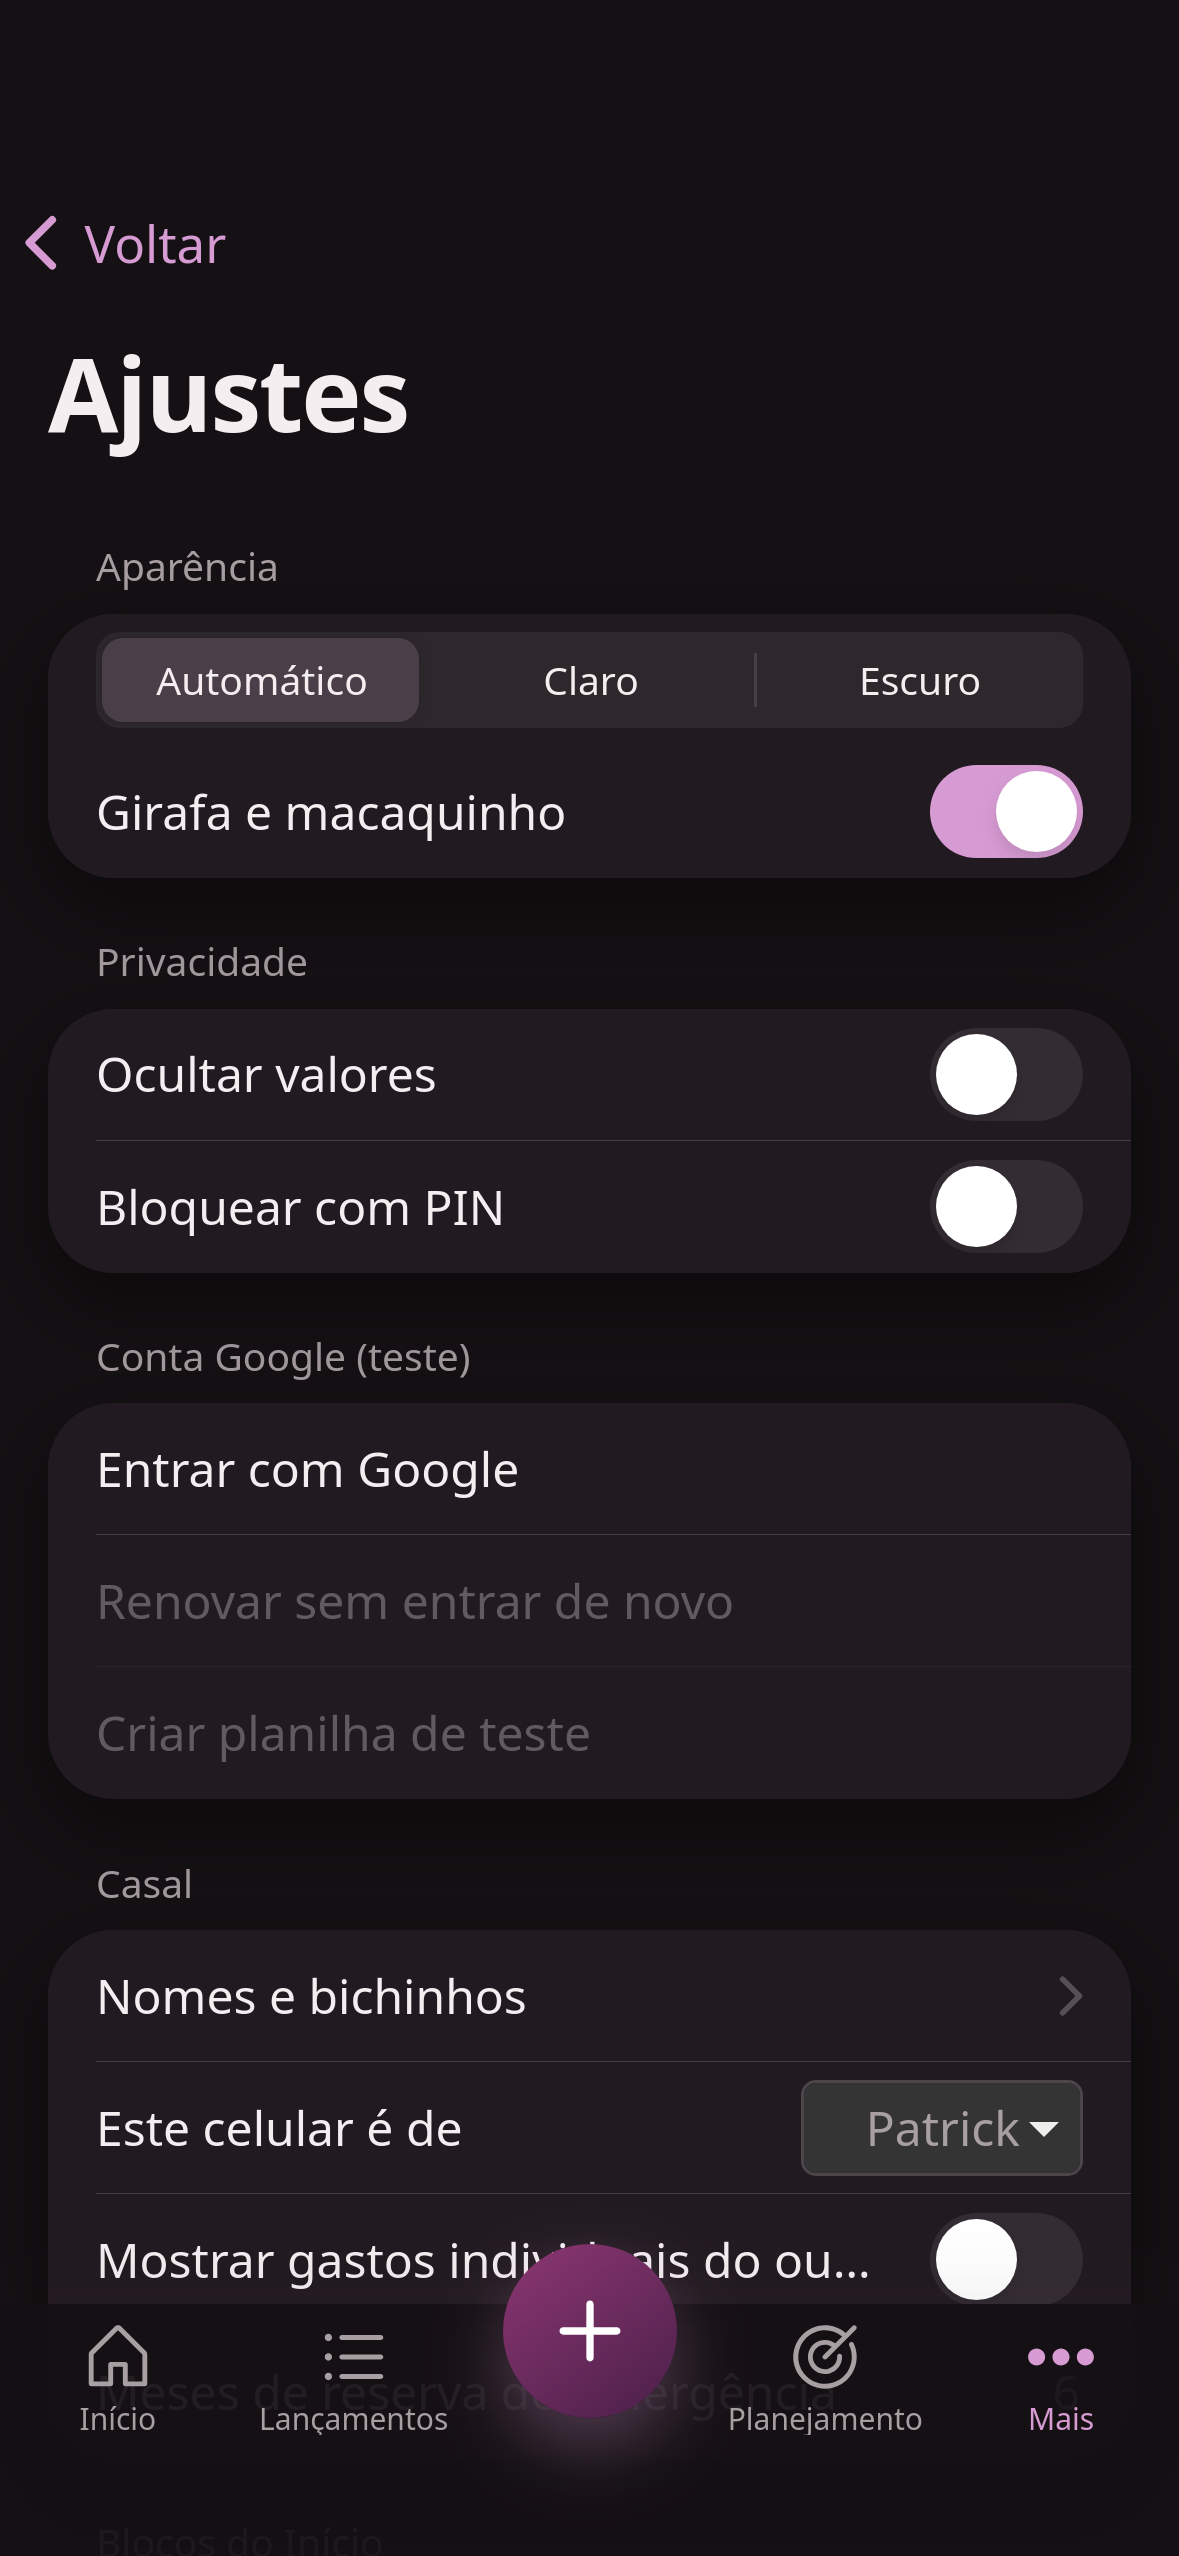
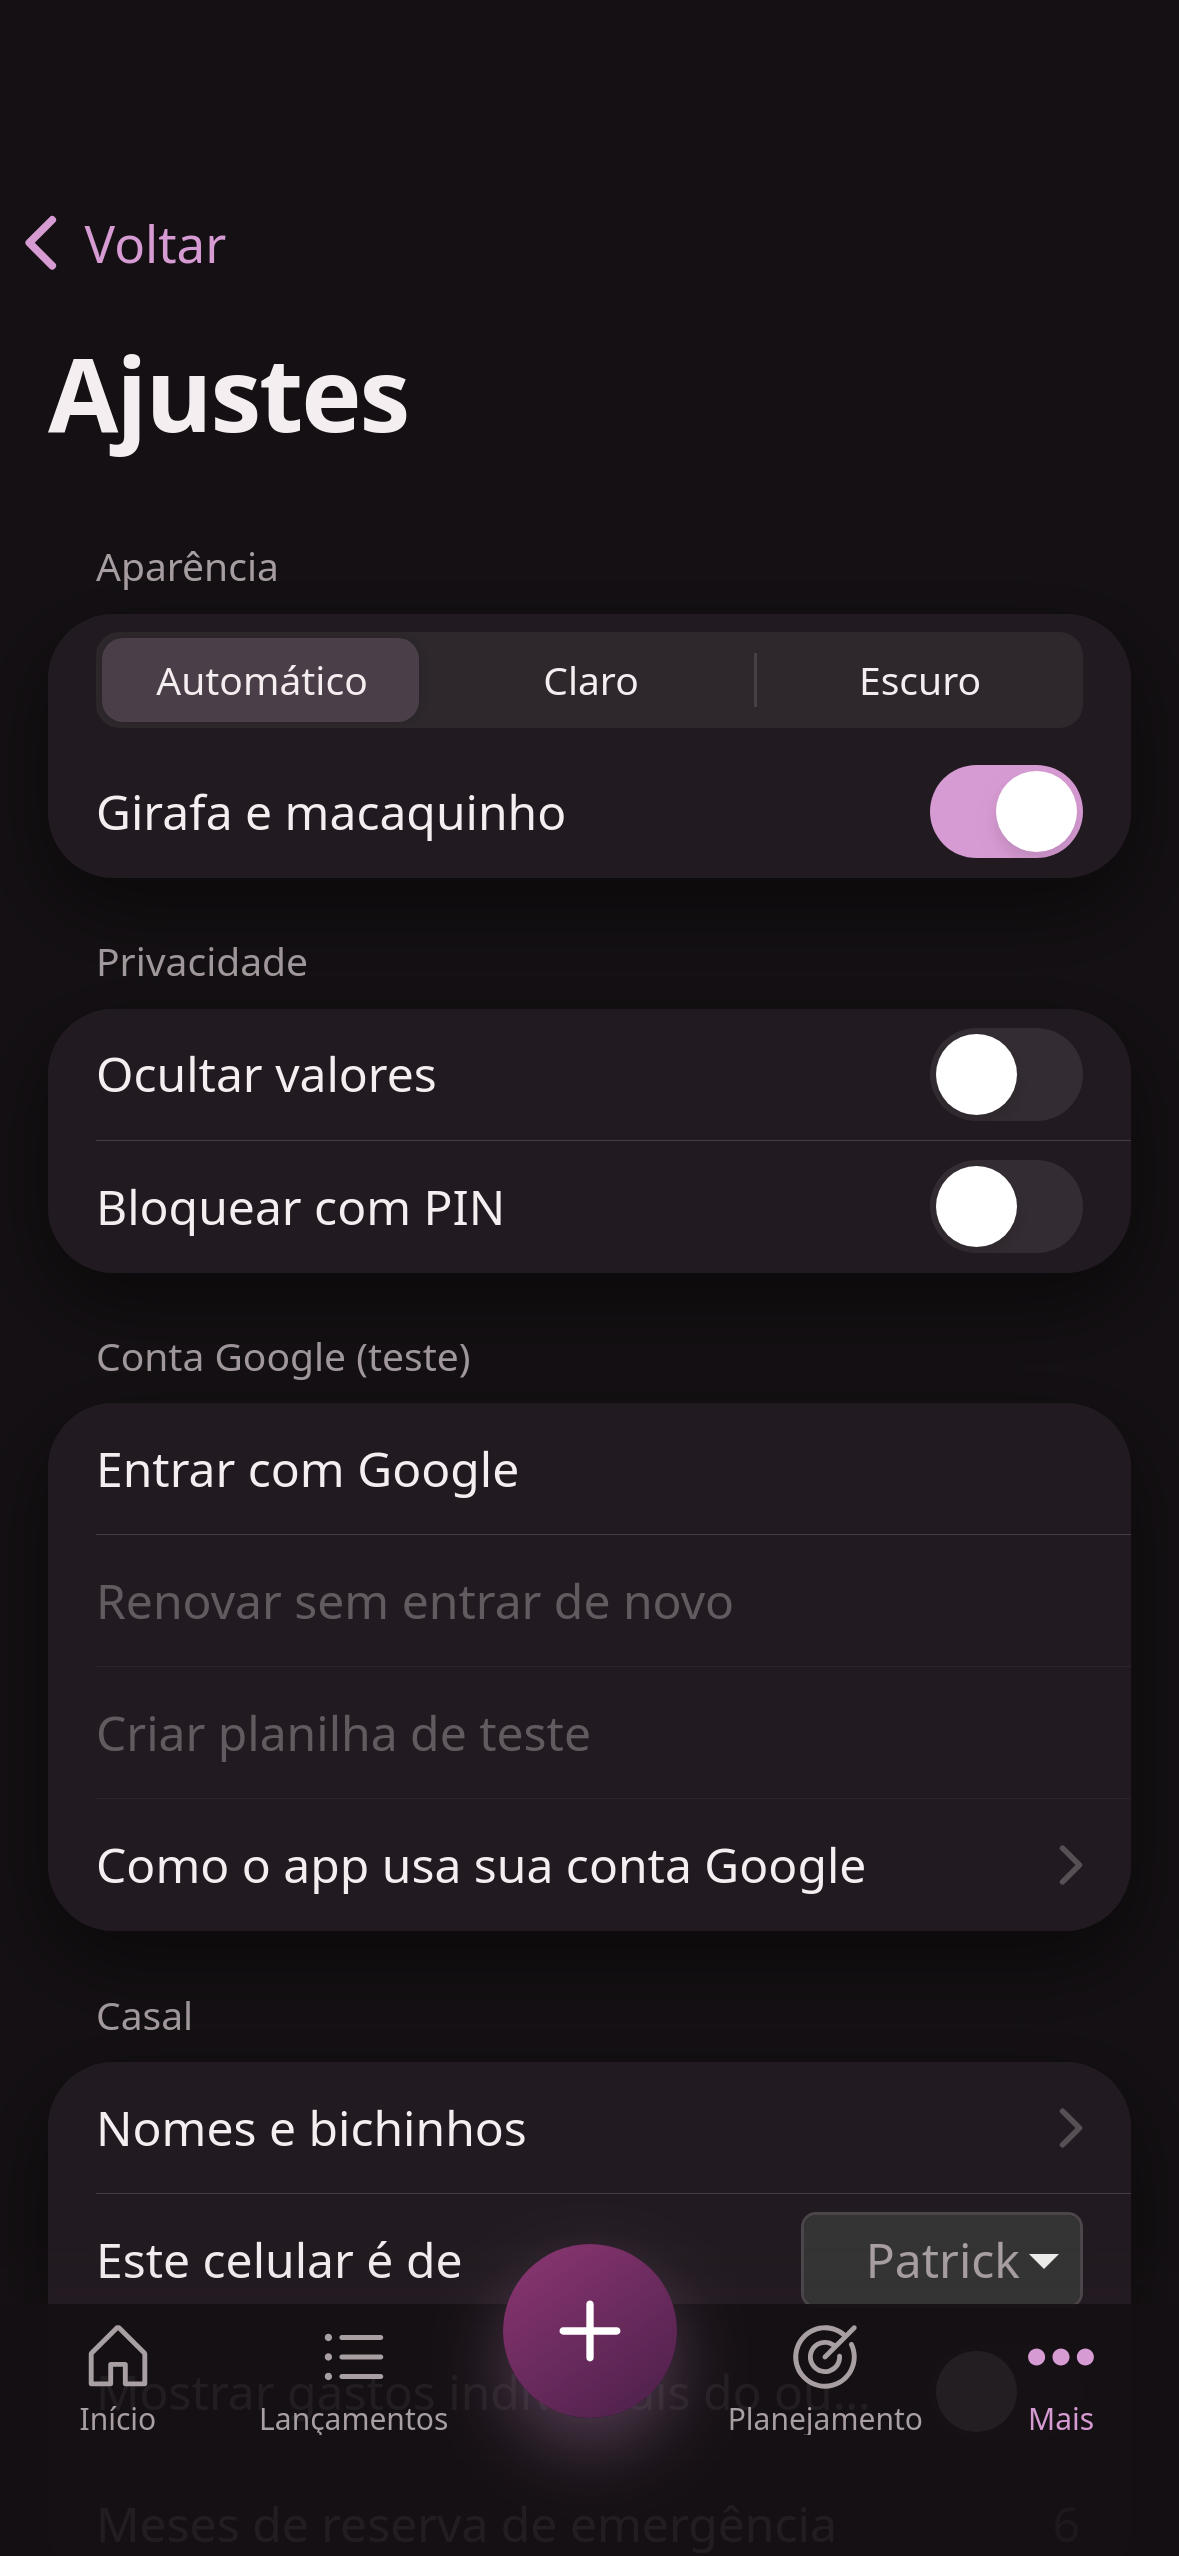
feat: add homepage and privacy policy for Google's consent screen
Publishing the Google project needs both on the app's own domain. They say
what the app actually does: no server, no analytics, and Google access
limited to the email address and files the app itself created or opened.

diff --git a/public/privacidade.html b/public/privacidade.html
@@ -1,0 +1,107 @@
+<!doctype html>
+<html lang="pt-BR">
+  <head>
+    <meta charset="utf-8" />
+    <meta name="viewport" content="width=device-width, initial-scale=1" />
+    <title>Meu Bem: política de privacidade</title>
+    <link rel="icon" href="icons/favicon-64.png" />
+    <link rel="stylesheet" href="legal.css" />
+  </head>
+  <body>
+    <main>
+      <h1>Política de privacidade</h1>
+      <p class="lead">Meu Bem. Atualizada em 6 de novembro de 2026.</p>
+
+      <h2>O essencial</h2>
+      <p>
+        O Meu Bem não tem servidor próprio. Não recebemos, não guardamos e não vendemos os dados de
+        vocês, e o app não usa anúncios nem ferramentas de análise.
+      </p>
+
+      <h2>Dados que ficam no aparelho</h2>
+      <p>
+        Nomes, salários, contas e os demais dados que vocês digitam ficam no armazenamento do
+        navegador do próprio aparelho. Eles só saem de lá quando vocês decidem: ao exportar um
+        backup, ao enviar uma mensagem pelo Compartilhar ou ao usar a conta Google.
+      </p>
+
+      <h2>Dados do Google</h2>
+      <p>Entrar com o Google é opcional. Quando vocês entram, o app pede acesso a:</p>
+      <ul>
+        <li><strong>Seu endereço de e-mail</strong>, para mostrar com qual conta você entrou.</li>
+        <li>
+          <strong>Arquivos do Google Drive criados ou abertos pelo app</strong> (permissão
+          <code>drive.file</code>), para criar e usar a planilha do Meu Bem. O app não vê os outros
+          arquivos do seu Drive.
+        </li>
+      </ul>
+      <p>
+        Essa comunicação acontece direto entre o seu aparelho e o Google. O acesso é usado só para
+        as funções acima, não é enviado a nós nem a terceiros, e a planilha fica na sua conta
+        Google. Ela só é vista por quem você compartilhar.
+      </p>
+      <p>
+        O uso e a transferência de informações recebidas das APIs do Google seguem a
+        <a href="https://developers.google.com/terms/api-services-user-data-policy"
+          >Política de Dados do Usuário dos Serviços de API do Google</a
+        >, incluindo os requisitos de uso limitado.
+      </p>
+
+      <h2>Serviços de terceiros</h2>
+      <ul>
+        <li>
+          <strong>GitHub Pages</strong> entrega os arquivos do app e pode registrar dados técnicos,
+          como o endereço IP, conforme a política do GitHub.
+        </li>
+        <li>
+          <strong>Google</strong> entrega o script de login quando a tela de Ajustes é aberta e
+          trata os dados da conta conforme a política do Google.
+        </li>
+      </ul>
+
+      <h2>Como apagar os dados</h2>
+      <ul>
+        <li>No aparelho: apague os dados do site no navegador ou remova o app.</li>
+        <li>
+          No Google: apague a planilha no Drive e revogue o acesso em
+          <a href="https://myaccount.google.com/permissions">myaccount.google.com/permissions</a>.
+        </li>
+      </ul>
+
+      <h2>Contato</h2>
+      <p>
+        Dúvidas sobre esta política podem ser enviadas em
+        <a href="https://github.com/patlopes/duo/issues">github.com/patlopes/duo/issues</a>.
+      </p>
+
+      <section class="other-language" id="english" lang="en">
+        <h2>In English</h2>
+        <p>
+          Meu Bem has no server of its own. We do not receive, store or sell user data, and the app
+          has no ads or analytics. Data typed into the app stays in the browser storage of the
+          device.
+        </p>
+        <p>
+          Signing in with Google is optional. The app requests the user's email address, to show
+          which account is signed in, and <code>drive.file</code> access, to create and use the
+          app's own spreadsheet; it cannot see other Drive files. This happens directly between the
+          device and Google, and nothing is sent to us or to third parties.
+        </p>
+        <p>
+          Meu Bem's use and transfer of information received from Google APIs adheres to the
+          <a href="https://developers.google.com/terms/api-services-user-data-policy"
+            >Google API Services User Data Policy</a
+          >, including the Limited Use requirements.
+        </p>
+        <p>
+          To delete data, clear the site's data on the device, delete the spreadsheet from Drive and
+          revoke access at
+          <a href="https://myaccount.google.com/permissions">myaccount.google.com/permissions</a>.
+          Contact:
+          <a href="https://github.com/patlopes/duo/issues">github.com/patlopes/duo/issues</a>.
+        </p>
+      </section>
+      <footer><a href="sobre.html">Sobre o Meu Bem</a></footer>
+    </main>
+  </body>
+</html>

diff --git a/public/sobre.html b/public/sobre.html
@@ -1,0 +1,53 @@
+<!doctype html>
+<html lang="pt-BR">
+  <head>
+    <meta charset="utf-8" />
+    <meta name="viewport" content="width=device-width, initial-scale=1" />
+    <title>Meu Bem: as contas do casal</title>
+    <meta
+      name="description"
+      content="Meu Bem mostra quanto o casal tem somando as rendas, quanto precisa pagar junto e quanto cabe a cada um."
+    />
+    <link rel="icon" href="icons/favicon-64.png" />
+    <link rel="stylesheet" href="legal.css" />
+  </head>
+  <body>
+    <main>
+      <div class="mascots">
+        <img src="mascots/giraffe-happy.webp" alt="Girafa, mascote do app" />
+        <img src="mascots/monkey-happy.webp" alt="Macaquinho, mascote do app" />
+      </div>
+      <h1>Meu Bem</h1>
+      <p class="lead">As contas que o casal paga junto, sem fazer conta.</p>
+      <a class="button" href="./">Abrir o app</a>
+
+      <h2>O que o app faz</h2>
+      <ul>
+        <li>Soma o salário de cada um e mostra quanto vocês têm no mês.</li>
+        <li>Reúne o que vocês pagam juntos: moradia, casamento, compras e contas fixas.</li>
+        <li>Diz quanto cabe a cada um, pela renda ou metade para cada.</li>
+        <li>Avisa quanto transferir para a conta conjunta e até quando.</li>
+        <li>Projeta os próximos meses e simula um aumento ou uma compra.</li>
+      </ul>
+
+      <h2>Onde ficam os dados</h2>
+      <p>
+        O app funciona no próprio celular, sem servidor e sem cadastro. Os dados ficam no aparelho
+        de vocês. O uso da conta Google é opcional e serve para guardar e compartilhar os dados numa
+        planilha que fica na conta Google de vocês.
+      </p>
+      <p><a href="privacidade.html">Leia a política de privacidade</a></p>
+
+      <section class="other-language" lang="en">
+        <h2>In English</h2>
+        <p>
+          Meu Bem is a free app for couples in Brazil. It adds up both incomes, lists the bills they
+          pay together and shows each person's share. Data stays on the device. Signing in with
+          Google is optional and is used to store and share that data in a spreadsheet in the user's
+          own Google account.
+          <a href="privacidade.html#english">Privacy policy</a>.
+        </p>
+      </section>
+    </main>
+  </body>
+</html>

diff --git a/public/legal.css b/public/legal.css
@@ -1,0 +1,89 @@
+:root {
+  color-scheme: light dark;
+  --bg: #f7f3ee;
+  --surface: #ffffff;
+  --text: #241c23;
+  --muted: #63585f;
+  --primary: #6e2f6b;
+}
+@media (prefers-color-scheme: dark) {
+  :root {
+    --bg: #141013;
+    --surface: #221b21;
+    --text: #f4eff3;
+    --muted: #b9adb6;
+    --primary: #d79bd3;
+  }
+}
+* {
+  box-sizing: border-box;
+}
+body {
+  margin: 0;
+  padding: 32px 16px 64px;
+  background: var(--bg);
+  color: var(--text);
+  font:
+    17px/1.55 ui-rounded,
+    -apple-system,
+    BlinkMacSystemFont,
+    'Segoe UI',
+    Roboto,
+    sans-serif;
+}
+main {
+  max-width: 640px;
+  margin: 0 auto;
+}
+.mascots {
+  display: flex;
+  gap: 8px;
+  align-items: flex-end;
+}
+.mascots img {
+  width: 88px;
+  height: auto;
+}
+h1 {
+  margin: 16px 0 4px;
+  font-size: 34px;
+  line-height: 1.15;
+}
+h2 {
+  margin: 32px 0 8px;
+  font-size: 21px;
+}
+p,
+ul {
+  margin: 0 0 12px;
+}
+li {
+  margin-bottom: 6px;
+}
+a {
+  color: var(--primary);
+}
+.lead {
+  color: var(--muted);
+}
+.button {
+  display: inline-block;
+  margin: 12px 0;
+  padding: 14px 24px;
+  border-radius: 16px;
+  background: var(--primary);
+  color: var(--bg);
+  font-weight: 700;
+  text-decoration: none;
+}
+section.other-language {
+  margin-top: 40px;
+  padding: 4px 20px 12px;
+  border-radius: 20px;
+  background: var(--surface);
+}
+footer {
+  margin-top: 32px;
+  color: var(--muted);
+  font-size: 15px;
+}

diff --git a/e2e/shell.spec.ts b/e2e/shell.spec.ts
@@ -174,6 +174,22 @@ test('teste do Google: entra, mostra o e-mail, renova e relata um erro', async (
   await expect(page.getByText('Renovar: O aparelho bloqueou a janela do Google.')).toBeVisible();
 });
 
+test('página inicial e privacidade abrem como páginas, mesmo com o app instalado', async ({
+  page,
+}) => {
+  await page.goto('./');
+  await skipOnboarding(page);
+  await page.evaluate(() => navigator.serviceWorker.ready);
+  await page.reload();
+  await expectActiveTitle(page, 'Início');
+
+  await page.goto('sobre.html');
+  await expect(page.getByRole('heading', { name: 'Meu Bem', level: 1 })).toBeVisible();
+  await page.getByRole('link', { name: 'Leia a política de privacidade' }).click();
+  await expect(page.getByRole('heading', { name: 'Política de privacidade' })).toBeVisible();
+  await expect(page.getByText('Limited Use requirements')).toBeVisible();
+});
+
 test('abre sem internet depois da primeira visita', async ({ page, context }) => {
   await page.goto('./');
   await skipOnboarding(page);

diff --git a/src/features/google/GoogleTest.tsx b/src/features/google/GoogleTest.tsx
@@ -91,6 +91,14 @@ export function GoogleTest() {
           <IonLabel>Abrir a planilha</IonLabel>
         </IonItem>
       )}
+      <IonItem
+        href={`${import.meta.env.BASE_URL}privacidade.html`}
+        target="_blank"
+        rel="noreferrer"
+        detail
+      >
+        <IonLabel>Como o app usa sua conta Google</IonLabel>
+      </IonItem>
       {lines.length > 0 && (
         <IonItem lines="none">
           <IonLabel className="ion-text-wrap" aria-live="polite">

diff --git a/e2e/flows.spec.ts b/e2e/flows.spec.ts
@@ -358,6 +358,6 @@ test('funciona offline com dados: lança sem internet e mantém depois', async (
   await saveForm(page);
   await page.reload();
   await gotoTab(page, 'Lançamentos');
-  await expect(page.getByRole('button', { name: /Sem internet/ })).toBeVisible();
+  await expect(page.getByRole('button', { name: /^Sem internet/ })).toBeVisible();
   await context.setOffline(false);
 });

diff --git a/docs/DECISIONS.md b/docs/DECISIONS.md
@@ -39,4 +39,5 @@ Cada decisão registra a data, a alternativa descartada e o motivo.
 | D-033 | 2026-11-06 | Dados entre os dois celulares por mensagem (`MEUBEM1:`), última alteração vence por linha, gastos privados de fora | Servidor ou conta própria |
 | D-034 | 2026-11-06 | Girafa e macaquinho em SVG próprio renderizado no `vectorcraft-cli`, porque o estúdio de IA do ArtCraft não está instalado | Aguardar o ArtCraft |
 | D-035 | 2026-11-06 | Atualização detectada por `version.json` e worker registrado com `?v=<build>`, porque o Pages guarda `sw.js` por 10 min | `registration.update()` sozinho |
+| D-037 | 2026-11-06 | Login Google só com escopos não sensíveis (`openid`, `email`, `drive.file`), publicado sem modo de teste; páginas `sobre.html` e `privacidade.html` no mesmo domínio | Escopo `spreadsheets`, que exigiria verificação completa |
 | D-036 | 2026-11-06 | Telas usadas por mais de uma aba existem sob cada aba, e o voltar fica na aba atual | Rotas únicas em `/tabs/more` |
